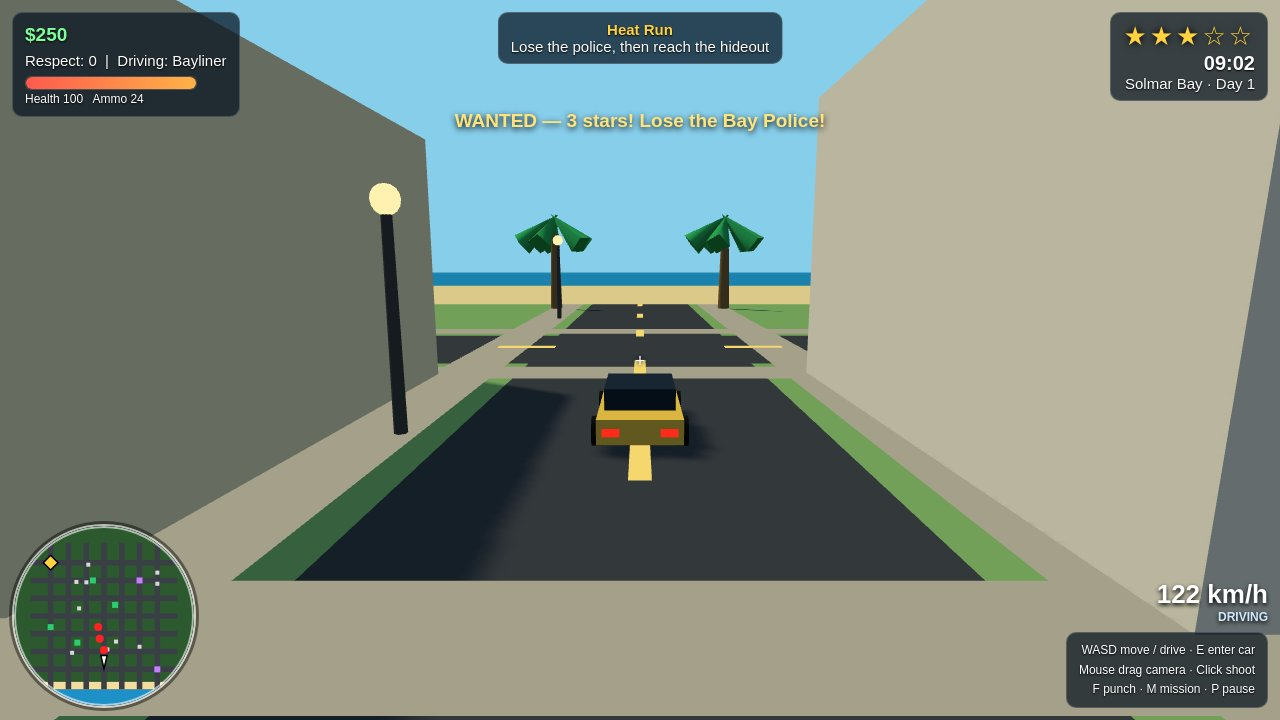
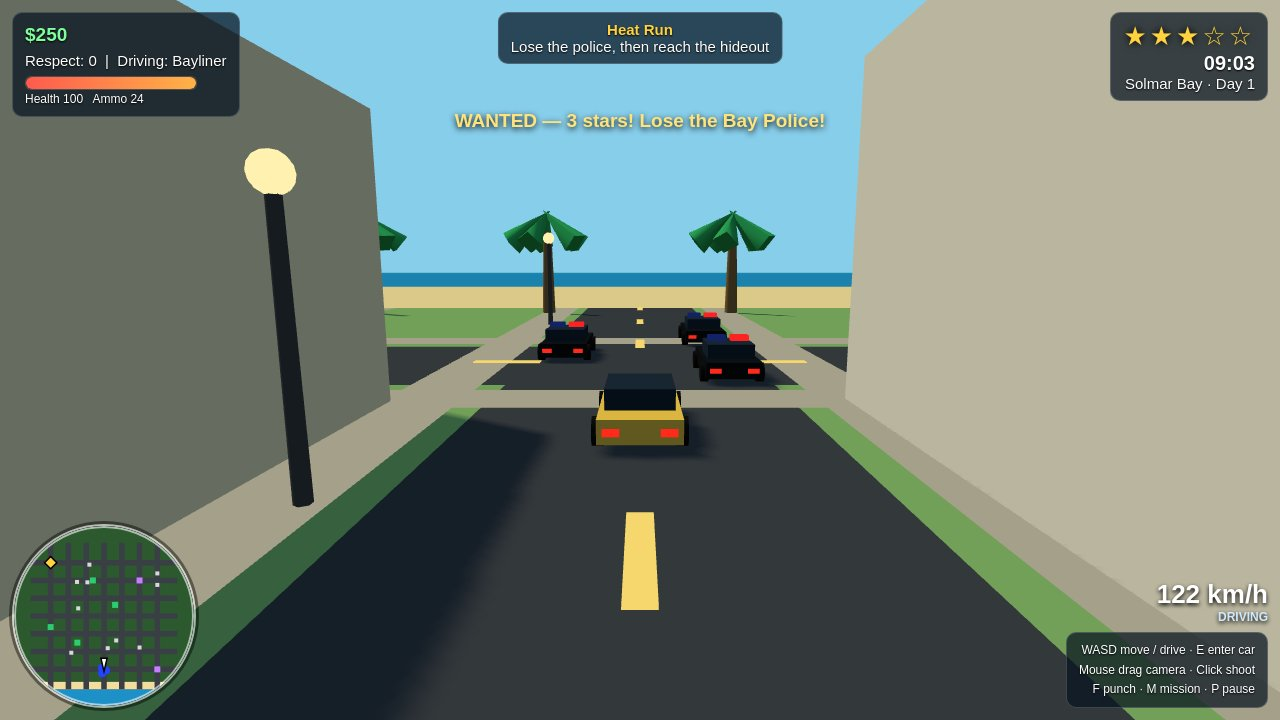
Cover: hold police cars in a visible chase formation ahead of the player

diff --git a/game/src/main.js b/game/src/main.js
@@ -388,6 +388,24 @@ function frame(now) {
     updatePolice(state, scene, dt, state.elapsed,
       () => endDay('BUSTED', 'The Bay Police boxed you in. Bail is $500 — your money is gone, but the story goes on.'),
       (dmg, reason) => damagePlayer(dmg, reason));
+    // chase screenshot staging: hold the police cars in a visible formation
+    // ahead of the player. In real play they chase from behind, so the chase
+    // camera never sees them; here the pack stays glued to the player's speed
+    // and angle, staggered across the avenue's lanes.
+    if (state.shotMode === 'chase' && state.player.car) {
+      const lead = state.player.car;
+      const spots = [[-3.5, 8], [3.5, 13], [-3.5, 18]];
+      const fx = Math.sin(lead.angle), fz = Math.cos(lead.angle);
+      const rx = Math.cos(lead.angle), rz = -Math.sin(lead.angle);
+      state.police.forEach((unit, i) => {
+        const s = spots[i % spots.length];
+        unit.car.x = lead.x + rx * s[0] + fx * s[1];
+        unit.car.z = lead.z + rz * s[0] + fz * s[1];
+        unit.car.angle = lead.angle;
+        unit.car.speed = lead.speed;
+        syncCarMesh(unit.car, dt, state.elapsed);
+      });
+    }
     audio.updateSiren(state.police.length > 0);
     updateEnemies(state, dt, {
       onEnemyShot: () => audio.playGunshot(),
